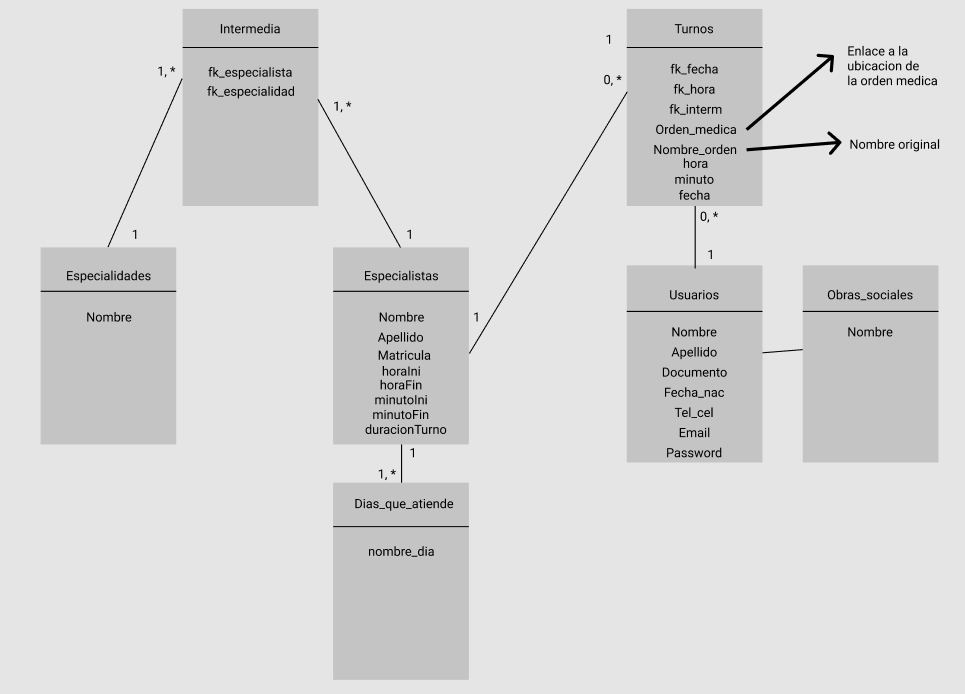
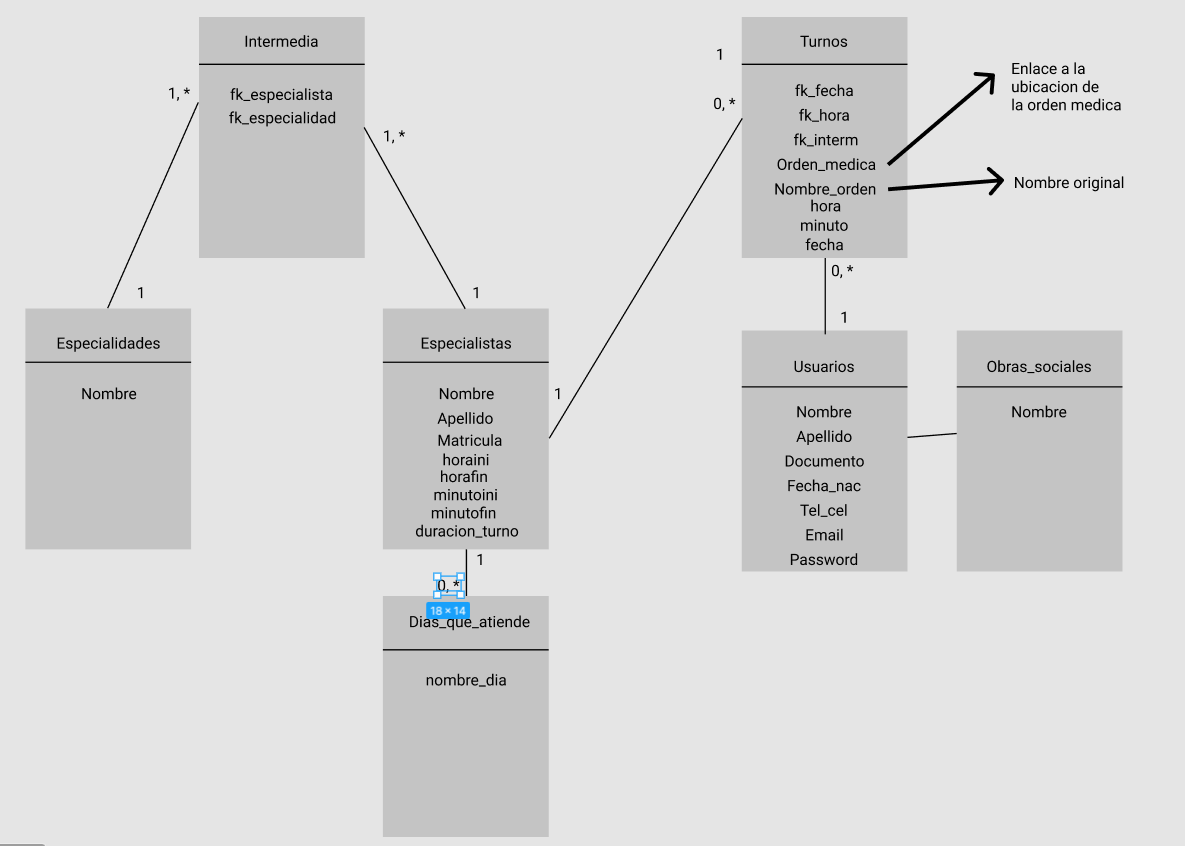
nueva estructura de la bd en migrations

diff --git a/application/db/migrations/20210528045121_first_migrations.php b/application/db/migrations/20210528045121_first_migrations.php
@@ -40,6 +40,19 @@ final class FirstMigrations extends AbstractMigration
                 'limit' => Constants::getNomApMax(),
                 'null'  => false
             ])
+            ->addColumn('matricula', 'string')
+            ->addColumn('horaini', 'integer')
+            ->addColumn('horafin', 'integer')
+            ->addColumn('minutoini', 'integer')
+            ->addColumn('minutofin', 'integer')
+            ->addColumn('duracion_turno', 'integer')
+            ->create();
+
+        $tableDiasQueAtiende = $this->table('dias_que_atiende', ['id' => false, 'primary_key' => ['id', 'id_especialista']]);
+        $tableDiasQueAtiende->addColumn('id', 'integer', ['identity' => true])
+            ->addColumn('nombre_dia', 'string')
+            ->addColumn('id_especialista', 'integer')
+            ->addForeignKey('id_especialista', 'especialistas', 'id')
             ->create();
 
         # PK compuesta => id_especialidad id_especialista
@@ -104,15 +117,14 @@ final class FirstMigrations extends AbstractMigration
 
         $tableTurno = $this->table('turnos');
         $tableTurno->addColumn('id_usuario', 'integer')
-            ->addColumn('id_fecha', 'integer')
-            ->addColumn('id_hora', 'integer')
+            ->addColumn('fecha', 'date')
+            ->addColumn('hora', 'integer')
+            ->addColumn('minuto', 'integer')
             ->addColumn('id_especialista', 'integer')
-            ->addColumn('id_especialidad', 'integer')
             ->addColumn('orden_medica', 'string')
             ->addcolumn('nombre_orden_medica', 'string')
             ->addForeignKey('id_usuario', 'usuarios', 'id')
-            ->addForeignKey(['id_fecha', 'id_hora'], 'hora', ['id_fecha', 'id'])
-            ->addForeignKey(['id_especialista', 'id_especialidad'], 'intermedia', ['id_especialista', 'id_especialidad'])
+            ->addForeignKey('id_especialista', 'especialistas', 'id')
             ->create();
     }
 }
